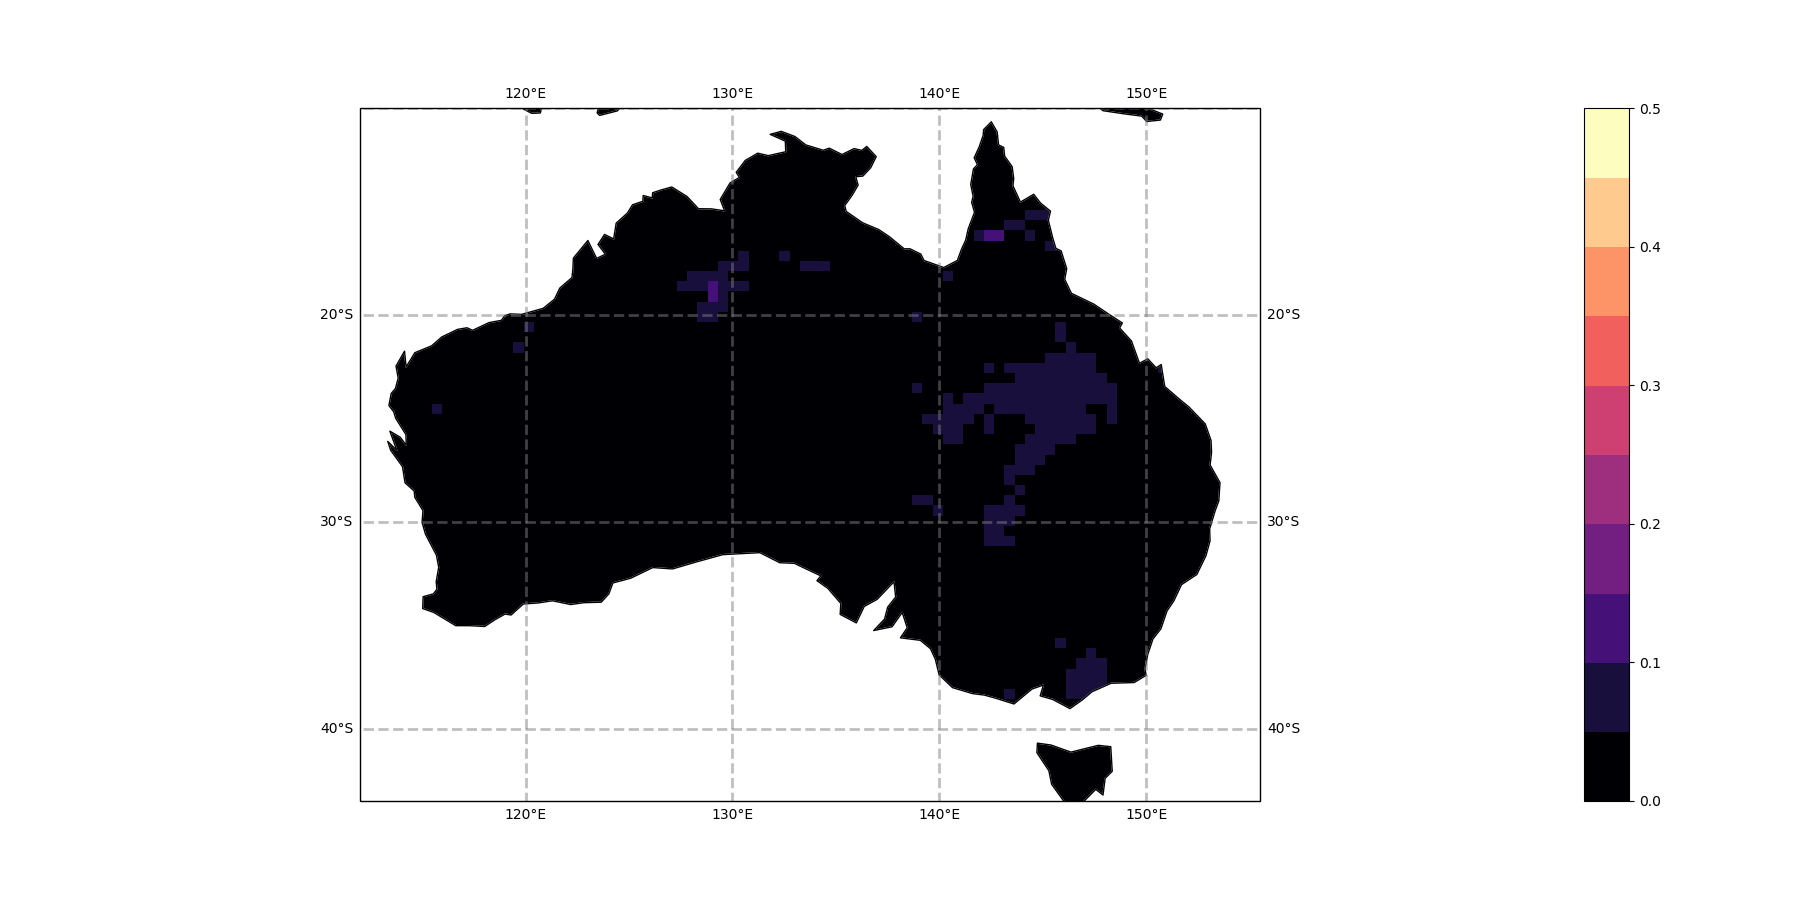
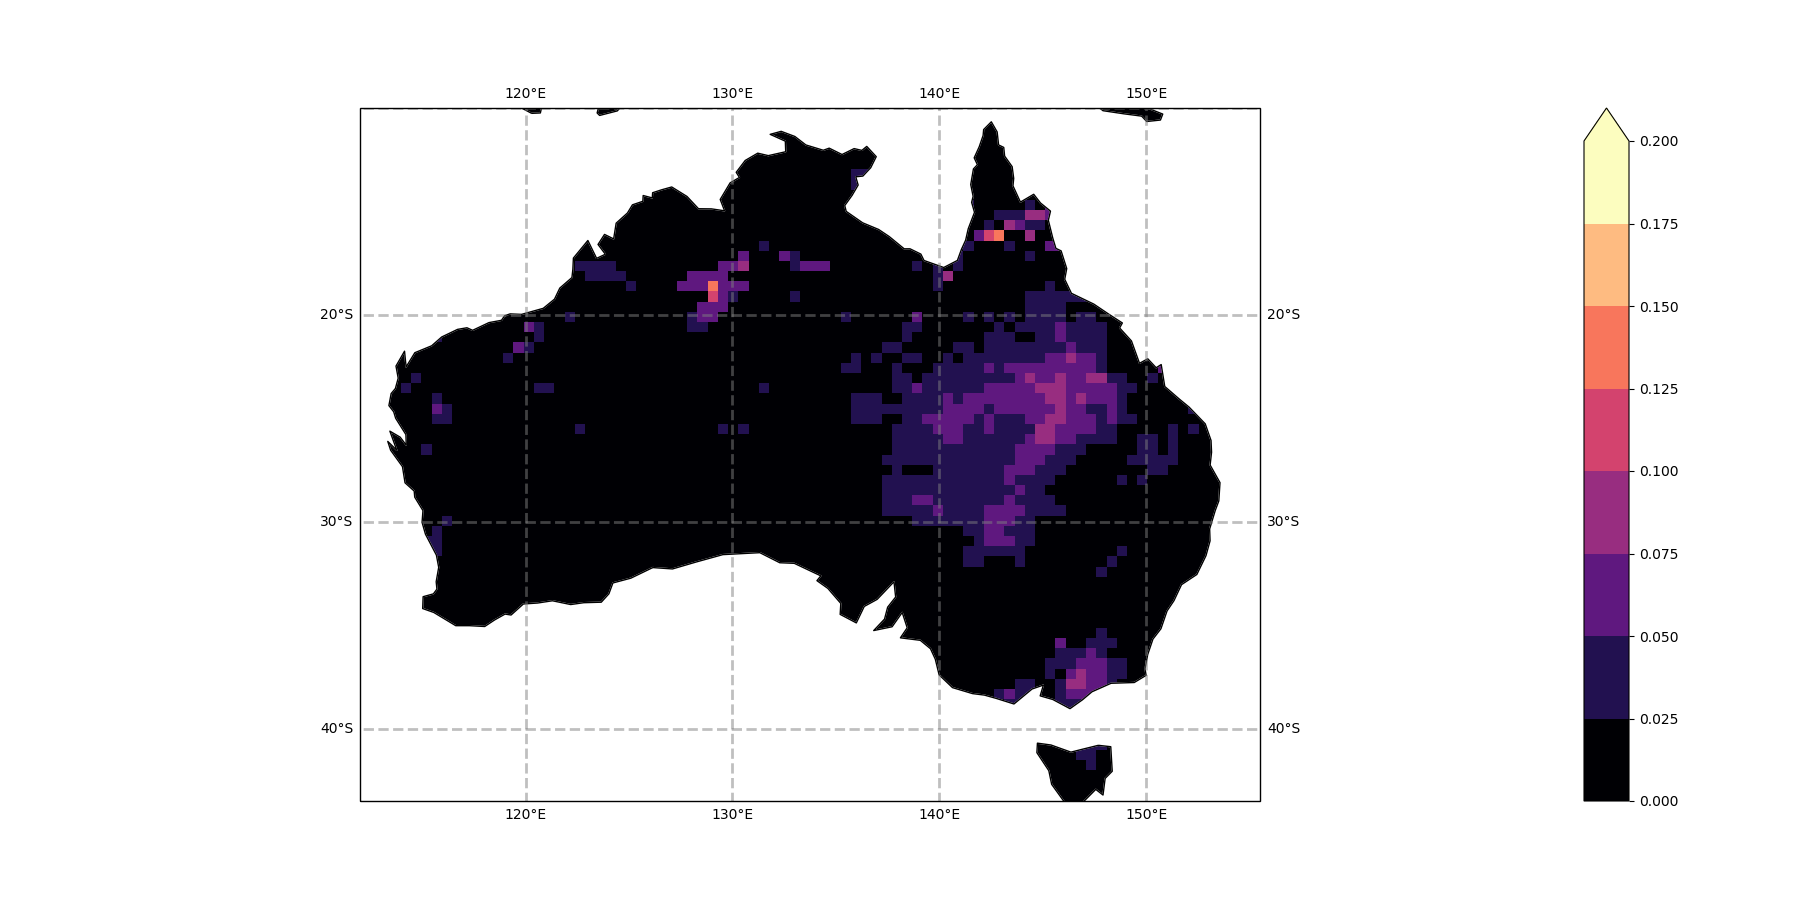
Tweask

diff --git a/WinterSchool.py b/WinterSchool.py
@@ -93,13 +93,14 @@ def NCopener(xval=29):
 		stack.append(np.sum(tmin[:,:,ref], axis=2))
 	# stack the annual counds of extere values
 	xccount = np.dstack(stack)
+	ipdb.set_trace()
 
 	#  perform the regression
 	print("Starting the regressions")
 	
 	# load the enso data
 	enso =  np.asarray(pd.read_csv("./best.csv")).reshape(-1) 
-	IOD =  np.asarray(pd.read_csv("./dmi_std.csv")).reshape(-1) 
+	IOD  =  np.asarray(pd.read_csv("./dmi_std.csv")).reshape(-1) 
 
 	# get the regression coeficents (slope, intercept, r2, pvalue, std error)
 	coef = threeDloop(xccount, enso)
@@ -159,12 +160,12 @@ def mapper(coef, varmode):
 	#    its just a container for infomation for the plot
 	mapdet = pf.mapclass(region="AUS")
 	# pick a colormap
-	cmap = mpc.ListedColormap(palettable.colorbrewer.diverging.RdBu_10_r.mpl_colors)
+	cmap = mpc.ListedColormap(palettable.colorbrewer.diverging.RdBu_8_r.mpl_colors)
 	cmap.set_bad(mapdet.maskcol)
 	mapdet.cmap = cmap
 	# set the min and max for the colormap
-	mapdet.cmin =  -10.0
-	mapdet.cmax =   10.0
+	mapdet.cmin =  -8.0
+	mapdet.cmax =   8.0
 
 	# set thee title
 	mapdet.var  = "HotNightsvs%s_Slope" %  varmode
@@ -175,13 +176,13 @@ def mapper(coef, varmode):
 	
 	# build an object to hold the metadata
 	# pick a colormap
-	cmap = mpc.ListedColormap(palettable.matplotlib.Magma_10.mpl_colors)
+	cmap = mpc.ListedColormap(palettable.matplotlib.Magma_8.mpl_colors)
 	cmap.set_bad(mapdet.maskcol)
 	mapdet.cmap = cmap
 	# set the min and max for the colormap
 	mapdet.cmin   = 0
-	mapdet.cmax   = 0.5
-	mapdet.extend = "neither"
+	mapdet.cmax   = 0.2
+	mapdet.extend = "max"
 	# set thee title
 	mapdet.var    = "HotNightsvs%s_R2" %  varmode
 	pf.mapmaker(coef[:, :, 2], mapdet)
